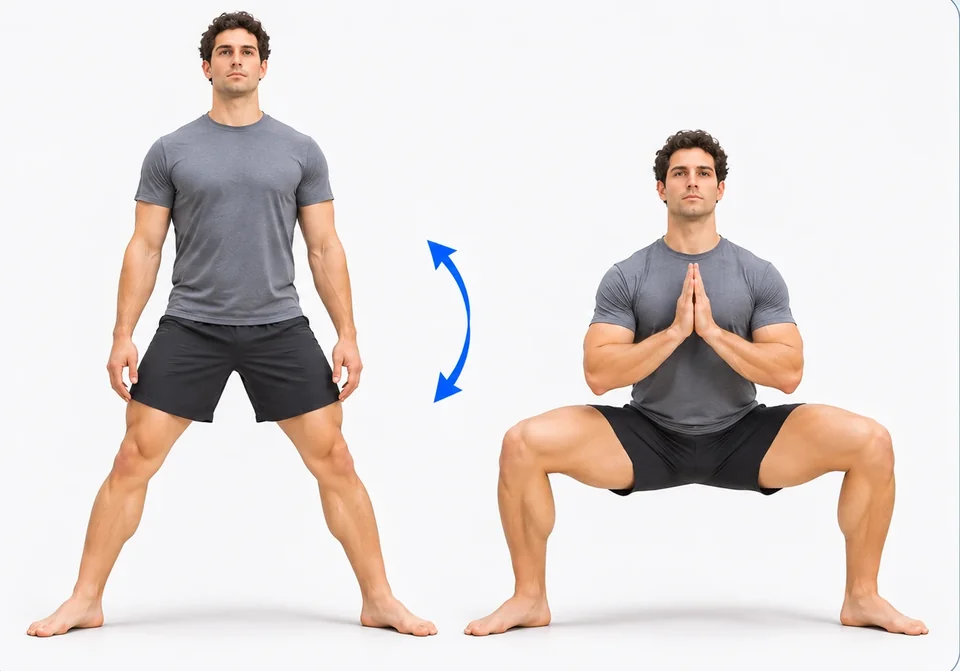
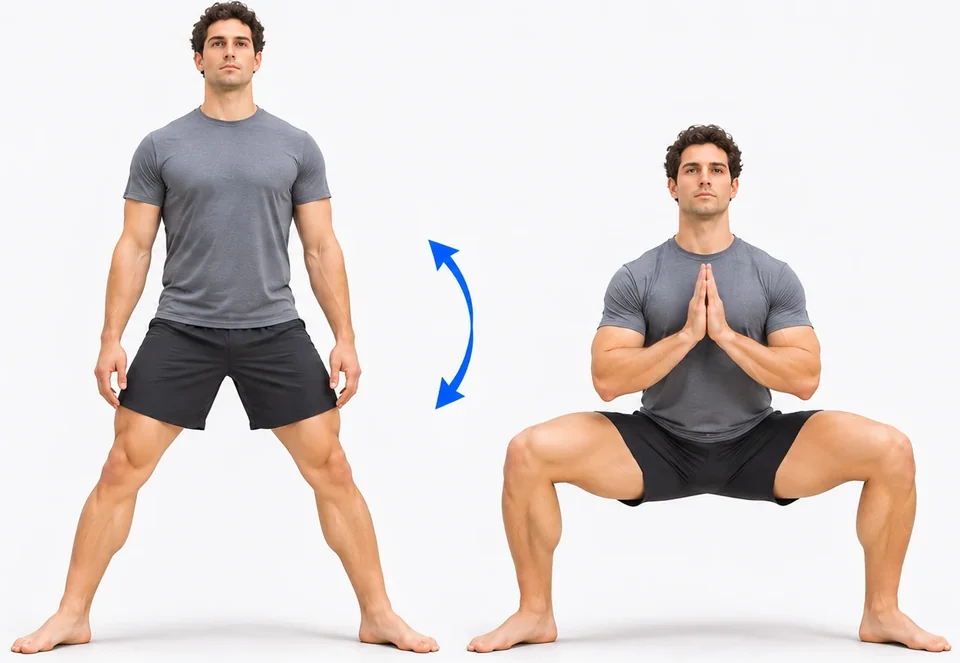
Illustrations: four band and pull-up pictures, two recut
New: band external rotation, band internal rotation, band pull-apart,
band-assisted easy pull-up. Recut: the passive hang (feet down) lost its
hands and bar, the horse stance kept a frame edge. Picture cache bumped
to v3 so phones fetch the fixed files.

diff --git a/lib/training/illustrations.ts b/lib/training/illustrations.ts
@@ -29,7 +29,7 @@ export const ILLUSTRATION_SIZES = {
   "leg-swings": [259, 410],
   "legs-up-breathing": [619, 301],
   "low-lunge-rotation": [281, 408],
-  "passive-hang-feet": [580, 335],
+  "passive-hang-feet": [580, 389],
   "quadruped-hip-circles": [279, 404],
   "quadruped-thoracic-rotation": [280, 401],
   "romanian-deadlift": [304, 358],
@@ -49,11 +49,15 @@ export const ILLUSTRATION_SIZES = {
   "dumbbell-curl": [960, 785],
   "hanging-knee-raise": [960, 751],
   "heel-raised-assisted-squat": [960, 829],
-  "horse-stance-squat": [960, 671],
+  "horse-stance-squat": [960, 663],
   "jefferson-curl": [960, 758],
   "long-lunge-pulse": [960, 674],
   "parallel-bar-dips": [960, 758],
   "wall-sit": [736, 909],
+  "band-external-rotation": [960, 1083],
+  "band-internal-rotation": [960, 1121],
+  "band-pull-apart": [585, 1305],
+  "easy-pull-up": [960, 1060],
 } as const satisfies Record<string, readonly [number, number]>;
 
 export type IllustrationId = keyof typeof ILLUSTRATION_SIZES;

diff --git a/public/sw.js b/public/sw.js
@@ -15,7 +15,7 @@
 const SHELL = "leblond-shell-v2";
 const STATIC = "leblond-static-v1";
 const PAGES = "leblond-pages-v1";
-const ILLUSTRATIONS = "leblond-illustrations-v2";
+const ILLUSTRATIONS = "leblond-illustrations-v3";
 const OFFLINE_URL = "/offline";
 const SHELL_FILES = [OFFLINE_URL, "/icons/icon-192.png", "/brand/leblond-mark-96.png"];
 const LIVE_PAGE = /^\/session\/[0-9a-f-]{36}$/;
